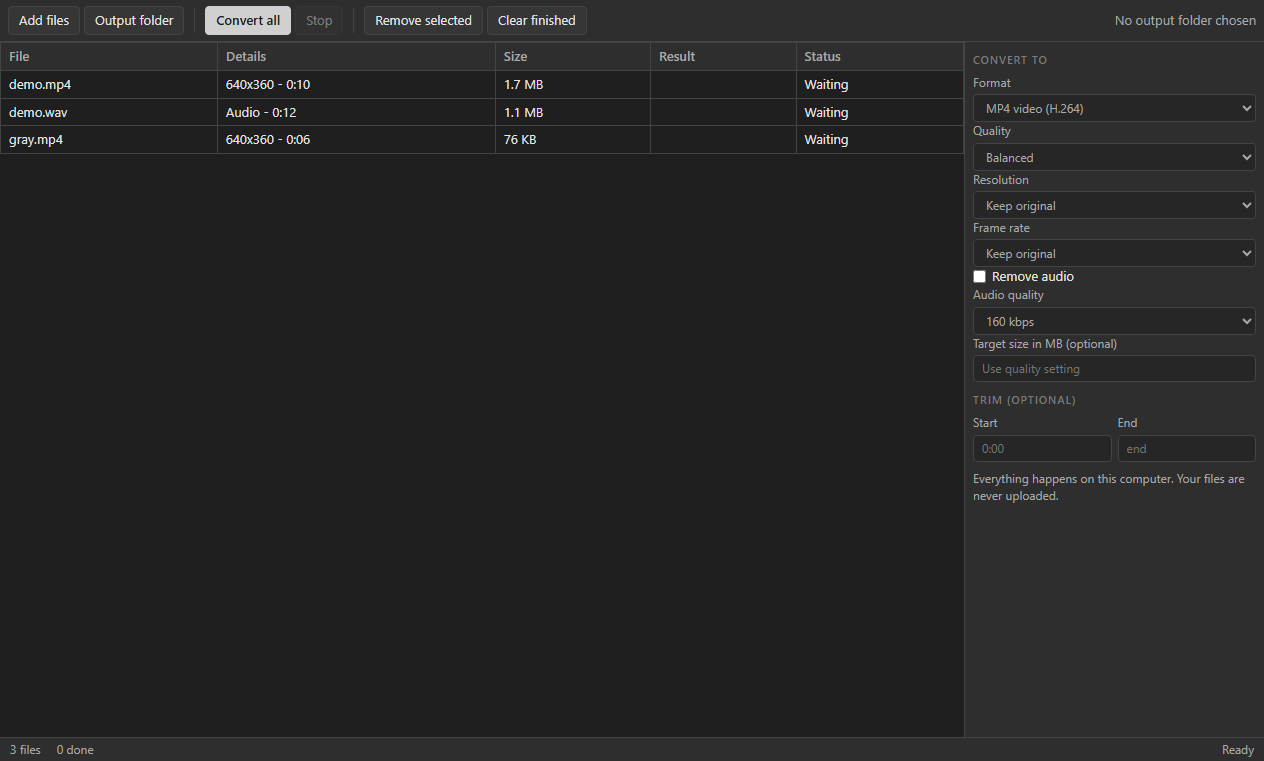
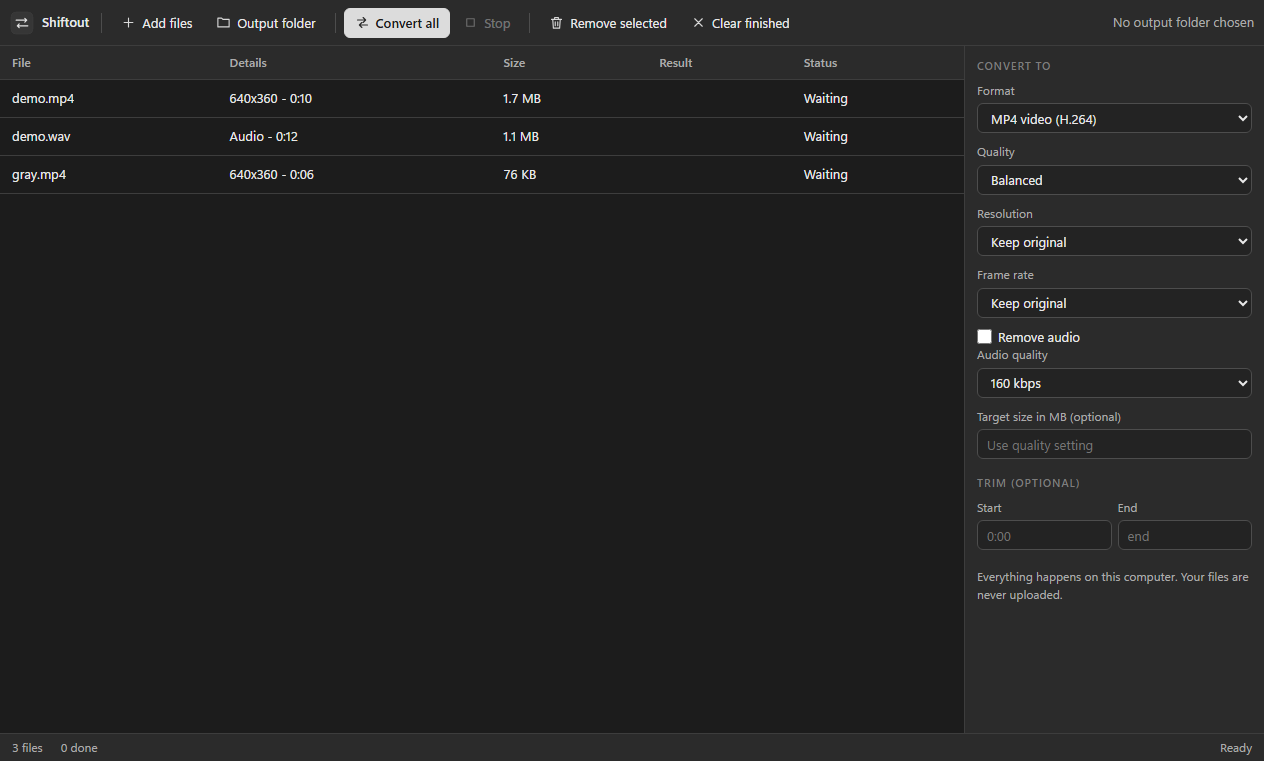
Shiftout 1.0.2: refreshed interface
Refreshed interface: line icons on every toolbar button, the app mark in the top bar, consistent control sizes and spacing, tidier side panels, and a toolbar that adapts to smaller windows. Also includes layout fixes and a fuller guide on the project page.

diff --git a/renderer/lookout.css b/renderer/lookout.css
@@ -1,62 +1,119 @@
-/* Lookout gray UI kit: flat, no glow, no gradients, no hue. */
+/* Lookout gray UI kit v2: flat, calm, no hue. Shared by every Lookout app. */
 :root{
-  --bg:#262626; --bg-2:#2e2e2e; --bg-3:#363636; --line:#444; --line-2:#555;
-  --text:#e4e4e4; --text-2:#a8a8a8; --text-3:#7c7c7c;
-  --accent:#d0d0d0; --accent-ink:#1c1c1c; --focus:#9a9a9a;
-  --radius:4px; --font:"Segoe UI",system-ui,-apple-system,sans-serif; --mono:Consolas,"Cascadia Mono",monospace;
+  --bg:#232323; --bg-2:#2b2b2b; --bg-3:#333333; --bg-4:#3b3b3b; --stage:#1c1c1c;
+  --line:#3d3d3d; --line-2:#4d4d4d; --line-3:#5c5c5c;
+  --text:#e8e8e8; --text-2:#ababab; --text-3:#7d7d7d;
+  --accent:#dcdcdc; --accent-ink:#1b1b1b; --focus:#a0a0a0;
+  --radius:6px; --h:30px;
+  --font:"Segoe UI Variable Text","Segoe UI",system-ui,-apple-system,sans-serif; --mono:Consolas,"Cascadia Mono",monospace;
 }
 *{box-sizing:border-box;margin:0;padding:0}
 html,body{height:100%;background:var(--bg);color:var(--text);font:13px/1.45 var(--font);overflow:hidden;user-select:none;-webkit-font-smoothing:antialiased}
 button,input,select,textarea{font:inherit;color:inherit}
 .app{display:grid;grid-template-rows:auto 1fr auto;height:100vh}
-.toolbar{display:flex;align-items:center;gap:4px;padding:6px 8px;background:var(--bg-2);border-bottom:1px solid var(--line);flex-wrap:wrap}
-.toolbar .sep{width:1px;align-self:stretch;background:var(--line);margin:2px 6px}
-.toolbar .grow{flex:1}
-.btn{background:var(--bg-3);border:1px solid var(--line);border-radius:var(--radius);padding:4px 10px;cursor:pointer;white-space:nowrap}
-.btn:hover{background:#404040;border-color:var(--line-2)}
+
+/* ---------- toolbar ---------- */
+.toolbar{display:flex;align-items:center;gap:2px;padding:7px 10px;min-height:46px;background:var(--bg-2);border-bottom:1px solid var(--line);flex-wrap:nowrap;overflow-x:auto;overflow-y:hidden;scrollbar-width:none}
+.toolbar::-webkit-scrollbar{height:0}
+.toolbar>*{flex-shrink:0}
+.toolbar .sep{width:1px;height:20px;align-self:center;background:var(--line-2);margin:0 6px}
+.toolbar .grow{flex:1 1 auto;min-width:8px}
+.toolbar input[type=text],.toolbar input[type=search]{width:170px}
+.brand{display:flex;align-items:center;gap:8px;padding-right:6px;margin-right:4px;font-weight:600;font-size:13px;color:var(--text)}
+.brand img{width:24px;height:24px;border-radius:6px;display:block}
+.brand+.sep{margin-left:0}
+
+/* ---------- buttons ---------- */
+.btn{display:inline-flex;align-items:center;justify-content:center;gap:6px;height:var(--h);padding:0 10px;background:var(--bg-3);border:1px solid var(--line);border-radius:var(--radius);cursor:pointer;white-space:nowrap;line-height:1;transition:background .08s,border-color .08s}
+.btn:hover{background:var(--bg-4);border-color:var(--line-2)}
 .btn:active{background:#2a2a2a}
-.btn:focus-visible,input:focus-visible,select:focus-visible,textarea:focus-visible,[tabindex]:focus-visible{outline:1px solid var(--focus);outline-offset:1px}
+.btn:focus-visible,input:focus-visible,select:focus-visible,textarea:focus-visible,[tabindex]:focus-visible{outline:2px solid var(--focus);outline-offset:1px}
 .btn.primary{background:var(--accent);color:var(--accent-ink);border-color:var(--accent);font-weight:600}
-.btn.primary:hover{background:#e0e0e0}
-.btn.on{background:#4a4a4a;border-color:var(--line-2)}
-.btn[disabled]{opacity:.4;pointer-events:none}
-.btn.icon{padding:4px 8px;min-width:30px;text-align:center}
-input[type=text],input[type=number],input[type=search],select,textarea{background:var(--bg);border:1px solid var(--line);border-radius:var(--radius);padding:4px 8px;user-select:text}
-input[type=range]{accent-color:#bdbdbd}
-input[type=color]{border:1px solid var(--line);background:var(--bg);width:28px;height:24px;padding:1px;border-radius:var(--radius)}
-label.field{display:flex;flex-direction:column;gap:3px;color:var(--text-2);font-size:12px}
-.main{display:flex;min-height:0}
-.sidebar{width:220px;background:var(--bg-2);border-right:1px solid var(--line);overflow:auto;padding:8px;flex-shrink:0}
-.sidebar.right{border-right:0;border-left:1px solid var(--line);width:250px}
-.sidebar h3,.panel-title{font-size:11px;text-transform:uppercase;letter-spacing:.08em;color:var(--text-3);margin:10px 0 6px;font-weight:600}
+.btn.primary:hover{background:#ececec;border-color:#ececec}
+.btn.on{background:#4a4a4a;border-color:var(--line-3);box-shadow:inset 0 0 0 1px #6a6a6a}
+.btn[disabled]{opacity:.38;pointer-events:none}
+.btn.icon{padding:0;width:var(--h);min-width:var(--h)}
+.btn .ic{width:15px;height:15px;flex-shrink:0;display:block;opacity:.92}
+.toolbar .btn:not(.primary):not(.on){background:transparent;border-color:transparent}
+.toolbar .btn:not(.primary):not(.on):hover{background:var(--bg-4);border-color:var(--line-2)}
+
+.toolbar.c1 .btn.minor:not(.primary):has(> svg.ic),.toolbar.c2 .btn:not(.primary):has(> svg.ic),.toolbar.c3 .btn:has(> svg.ic){font-size:0;gap:0;width:var(--h);padding:0}
+.toolbar.c2 .brand span{display:none}
+.toolbar.c2 input[type=text],.toolbar.c2 input[type=search]{width:120px}
+
+/* ---------- fields ---------- */
+input[type=text],input[type=number],input[type=search],input[type=date],select,textarea{background:var(--bg);border:1px solid var(--line-2);border-radius:var(--radius);padding:0 9px;height:var(--h);user-select:text;min-width:0}
+textarea{height:auto;padding:7px 9px;resize:vertical;line-height:1.45}
+select{padding-right:6px;cursor:pointer}
+input:hover,select:hover,textarea:hover{border-color:var(--line-3)}
+input[type=range]{accent-color:#c8c8c8;height:var(--h)}
+input[type=checkbox]{accent-color:#c8c8c8;width:15px;height:15px;cursor:pointer}
+input[type=color]{border:1px solid var(--line-2);background:var(--bg);width:30px;height:var(--h);padding:2px;border-radius:var(--radius)}
+label.field{display:flex;flex-direction:column;gap:4px;color:var(--text-2);font-size:12px}
+label.field>input,label.field>select,label.field>textarea{width:100%;color:var(--text);font-size:13px}
+
+/* ---------- layout ---------- */
+.main{display:flex;min-height:0;min-width:0}
+.sidebar{width:228px;background:var(--bg-2);border-right:1px solid var(--line);overflow:auto;padding:10px 12px 14px;flex-shrink:0}
+.sidebar.right{border-right:0;border-left:1px solid var(--line);width:272px}
+.sidebar h3,.panel-title{font-size:11px;text-transform:uppercase;letter-spacing:.08em;color:var(--text-3);margin:16px 0 8px;font-weight:600}
 .sidebar h3:first-child{margin-top:2px}
-.stage{flex:1;min-width:0;min-height:0;position:relative;background:#1f1f1f;overflow:auto}
-.status{display:flex;gap:16px;align-items:center;padding:3px 10px;background:var(--bg-2);border-top:1px solid var(--line);color:var(--text-2);font-size:12px}
+.sidebar input[type=text],.sidebar input[type=search],.sidebar select,.sidebar textarea{width:100%}
+.sidebar .row{flex-wrap:wrap}
+.sidebar .row>.btn{flex:1 1 auto}
+.sidebar .row>label.field{flex:1 1 0;min-width:0}
+.sidebar label.field{margin-bottom:10px}
+.sidebar .btn{width:auto}
+.sidebar>.btn{width:100%;margin-bottom:6px}
+.stage{flex:1;min-width:0;min-height:0;position:relative;background:var(--stage);overflow:auto}
+.status{display:flex;gap:18px;align-items:center;height:28px;padding:0 12px;background:var(--bg-2);border-top:1px solid var(--line);color:var(--text-2);font-size:12px;white-space:nowrap;overflow:hidden}
 .status .grow{flex:1}
 .list{display:flex;flex-direction:column;gap:2px}
-.list .item{padding:5px 8px;border-radius:var(--radius);cursor:pointer;border:1px solid transparent;display:flex;gap:6px;align-items:center}
+.list .item{padding:6px 8px;border-radius:var(--radius);cursor:pointer;border:1px solid transparent;display:flex;gap:6px;align-items:center;min-height:30px}
 .list .item:hover{background:var(--bg-3)}
-.list .item.sel{background:#444;border-color:var(--line-2)}
+.list .item.sel{background:var(--bg-4);border-color:var(--line-2)}
 .row{display:flex;gap:6px;align-items:center}
+.grow{flex:1 1 auto;min-width:0}
+.brow{display:grid;grid-template-columns:1fr 1fr;gap:6px;margin-bottom:6px}
+.brow>.btn{justify-content:flex-start}
+.frow{display:flex;align-items:center;gap:8px;margin-bottom:8px;color:var(--text-2)}
+.frow>input[type=text],.frow>input[type=number]{flex:1;color:var(--text)}
+.frow>span:first-child{min-width:44px}
+.frow>select{flex:1;min-width:0}
+.sidebar input[type=range]{width:100%}
+.sidebar .swatches{margin-bottom:10px}
+.list .item .btn{height:24px!important;width:26px!important;padding:0!important;font-size:0!important;gap:0;background:transparent;border-color:transparent;opacity:.55}
+.list .item:hover .btn,.list .item.sel .btn{opacity:1}
+.list .item .btn:hover{background:var(--bg-4);border-color:var(--line-2)}
 .col{display:flex;flex-direction:column;gap:6px}
 .muted{color:var(--text-2)}
-.empty{position:absolute;inset:0;display:flex;flex-direction:column;align-items:center;justify-content:center;gap:10px;color:var(--text-3);text-align:center;padding:20px}
-.empty .big{font-size:18px;color:var(--text-2)}
-.modal-back{position:fixed;inset:0;background:rgba(0,0,0,.55);display:flex;align-items:center;justify-content:center;z-index:50}
-.modal{background:var(--bg-2);border:1px solid var(--line-2);border-radius:6px;min-width:340px;max-width:80vw;max-height:85vh;overflow:auto;padding:16px;display:flex;flex-direction:column;gap:12px}
-.modal h2{font-size:15px;font-weight:600}
-.toast{position:fixed;left:50%;bottom:34px;transform:translateX(-50%);background:var(--bg-3);border:1px solid var(--line-2);padding:7px 14px;border-radius:var(--radius);z-index:60}
-.progress{height:6px;background:var(--bg);border:1px solid var(--line);border-radius:3px;overflow:hidden}
-.progress>i{display:block;height:100%;background:var(--accent);width:0}
-table.grid{border-collapse:collapse;width:100%}
-table.grid th,table.grid td{border:1px solid var(--line);padding:4px 8px;text-align:left}
-table.grid th{background:var(--bg-2);color:var(--text-2);font-weight:600}
-::-webkit-scrollbar{width:11px;height:11px}
-::-webkit-scrollbar-thumb{background:#4a4a4a;border:2px solid var(--bg);border-radius:6px}
-::-webkit-scrollbar-track{background:var(--bg)}
-.swatches{display:flex;flex-wrap:wrap;gap:4px}
-.swatches button{width:22px;height:22px;border:1px solid var(--line-2);border-radius:3px;cursor:pointer;padding:0}
-.swatches button.on{outline:2px solid var(--accent);outline-offset:1px}
-.progress>div{display:block;height:100%;background:var(--accent)}
-table.grid tr.sel td{background:#3a3a3a}
+.empty{position:absolute;inset:0;display:flex;flex-direction:column;align-items:center;justify-content:center;gap:12px;color:var(--text-3);text-align:center;padding:24px}
+.empty .big{font-size:18px;color:var(--text-2);font-weight:600}
+
+/* ---------- overlays ---------- */
+.modal-back{position:fixed;inset:0;background:rgba(0,0,0,.6);display:flex;align-items:center;justify-content:center;z-index:50}
+.modal{background:var(--bg-2);border:1px solid var(--line-2);border-radius:10px;min-width:360px;max-width:80vw;max-height:85vh;overflow:auto;padding:20px;display:flex;flex-direction:column;gap:14px;box-shadow:0 18px 50px rgba(0,0,0,.5)}
+.modal h2{font-size:16px;font-weight:600}
+.toast{position:fixed;left:50%;bottom:40px;transform:translateX(-50%);background:var(--bg-4);border:1px solid var(--line-3);padding:9px 16px;border-radius:8px;z-index:60;box-shadow:0 8px 24px rgba(0,0,0,.4)}
+.progress{height:6px;background:var(--bg);border:1px solid var(--line);border-radius:4px;overflow:hidden}
+.progress>i,.progress>div{display:block;height:100%;background:var(--accent);width:0}
+
+/* ---------- tables ---------- */
+table.grid{border-collapse:separate;border-spacing:0;width:100%}
+table.grid th,table.grid td{border-bottom:1px solid var(--line);padding:0 12px;height:38px;text-align:left;vertical-align:middle}
+table.grid th{background:var(--bg-2);color:var(--text-2);font-weight:600;font-size:12px;position:sticky;top:0;z-index:1;height:34px}
+table.grid tbody tr:hover td{background:#262626}
+table.grid tr.sel td{background:#353535}
 table.grid tbody tr{cursor:default}
+table.grid td .btn{height:26px;margin-left:8px;vertical-align:middle}
+table.grid td{white-space:nowrap}
+
+/* ---------- misc ---------- */
+::-webkit-scrollbar{width:11px;height:11px}
+::-webkit-scrollbar-thumb{background:#474747;border:3px solid transparent;background-clip:padding-box;border-radius:8px}
+::-webkit-scrollbar-thumb:hover{background:#5a5a5a;background-clip:padding-box;border:3px solid transparent}
+::-webkit-scrollbar-track,::-webkit-scrollbar-corner{background:transparent}
+.swatches{display:flex;flex-wrap:wrap;gap:6px}
+.swatches button{width:24px;height:24px;border:1px solid var(--line-3);border-radius:5px;cursor:pointer;padding:0}
+.swatches button.on{outline:2px solid var(--accent);outline-offset:2px}
+kbd{font-family:var(--mono);font-size:11px;background:var(--bg-3);border:1px solid var(--line-2);border-bottom-width:2px;border-radius:4px;padding:0 5px}

diff --git a/renderer/kit.js b/renderer/kit.js
@@ -1,0 +1,137 @@
+// Lookout UI kit: adds the app mark to the toolbar and monochrome line icons to buttons.
+// Purely visual. Buttons keep their text, so nothing else changes.
+(function () {
+  'use strict';
+  const NS = 'http://www.w3.org/2000/svg';
+  const P = {
+    plus: 'M12 5v14M5 12h14',
+    file: 'M14 3H6v18h12V7zM14 3v4h4M12 11v6M9 14h6',
+    folder: 'M3 7V5h6l2 2h10v12H3z',
+    save: 'M5 3h11l3 3v15H5zM8 3v5h7V3M8 21v-7h8v7',
+    saveas: 'M5 3h11l3 3v6M5 3v18h7M8 3v5h7V3M15 21l6-6-2-2-6 6v2z',
+    undo: 'M9 14L4 9l5-5M4 9h10a6 6 0 010 12h-3',
+    redo: 'M15 14l5-5-5-5M20 9H10a6 6 0 000 12h3',
+    trash: 'M4 7h16M10 11v6M14 11v6M6 7l1 14h10l1-14M9 7V4h6v3',
+    copy: 'M9 9h11v11H9zM5 15H4V4h11v1',
+    paste: 'M9 4h6v3H9zM8 5H5v16h14V5h-3',
+    dup: 'M8 8h12v12H8zM4 16V4h12M14 11v6M11 14h6',
+    download: 'M12 4v11M7 10l5 5 5-5M5 20h14',
+    fit: 'M4 9V4h5M15 4h5v5M20 15v5h-5M9 20H4v-5',
+    play: 'M7 4l13 8-13 8z',
+    stop: 'M6 6h12v12H6z',
+    pause: 'M7 5h3v14H7zM14 5h3v14h-3z',
+    rec: 'M12 5a7 7 0 100 14 7 7 0 000-14z',
+    scissors: 'M6 9a3 3 0 100-6 3 3 0 000 6zM6 21a3 3 0 100-6 3 3 0 000 6zM8.2 7.8L20 19M8.2 16.2L20 5',
+    pointer: 'M5 3l14 7-6 2-2 6z',
+    hand: 'M8 13V6a1.5 1.5 0 013 0v5M11 11V4.5a1.5 1.5 0 013 0V11M14 11V6a1.5 1.5 0 013 0v8a7 7 0 01-7 7 6 6 0 01-5-3l-2.5-4.5a1.5 1.5 0 012.6-1.5L8 15',
+    connector: 'M5 19L19 5M13 5h6v6',
+    frame: 'M7 3v18M17 3v18M3 7h18M3 17h18',
+    rect: 'M4 6h16v12H4z',
+    ellipse: 'M12 5c4.4 0 8 3.1 8 7s-3.6 7-8 7-8-3.1-8-7 3.6-7 8-7z',
+    line: 'M5 19L19 5',
+    text: 'M5 6V4h14v2M12 4v16M9 20h6',
+    highlight: 'M14 4l6 6-8 8H6v-6zM4 21h16',
+    pen: 'M4 20l4-1 11-11-3-3L5 16zM14 7l3 3',
+    redact: 'M4 8h16v8H4z',
+    sign: 'M3 17c3-6 5-9 7-9 3 0-2 9 1 9 2 0 3-3 5-3s1 3 5 3M3 21h18',
+    eraser: 'M8 20l-4-4 10-10 6 6-10 8zM12 20h8',
+    search: 'M11 4a7 7 0 100 14 7 7 0 000-14zM16 16l5 5',
+    list: 'M9 6h11M9 12h11M9 18h11M4 6h.01M4 12h.01M4 18h.01',
+    child: 'M5 4v8a3 3 0 003 3h11M15 11l4 4-4 4',
+    sibling: 'M5 6h14M5 12h14M12 15v6M9 18h6',
+    collapse: 'M6 9l6 6 6-6',
+    expand: 'M7 14l5-5 5 5',
+    calendar: 'M4 6h16v14H4zM4 10h16M8 3v5M16 3v5',
+    diamond: 'M12 3l9 9-9 9-9-9z',
+    up: 'M12 19V5M6 11l6-6 6 6',
+    down: 'M12 5v14M6 13l6 6 6-6',
+    refresh: 'M20 11a8 8 0 10-2.3 5.7M20 4v7h-7',
+    check: 'M4 12l5 5L20 6',
+    convert: 'M4 8h13M13 4l4 4-4 4M20 16H7M11 12l-4 4 4 4',
+    eye: 'M2 12s4-7 10-7 10 7 10 7-4 7-10 7S2 12 2 12zM12 9a3 3 0 100 6 3 3 0 000-6z',
+    info: 'M12 3a9 9 0 100 18 9 9 0 000-18zM12 11v6M12 7.5h.01',
+    front: 'M8 8h12v12H8zM4 4h10v3M4 4v10h3',
+    back: 'M4 4h12v12H4zM20 8v12H8v-4',
+    merge: 'M6 3v6a6 6 0 006 6h6M15 12l3 3-3 3M6 21v-4',
+    rotl: 'M4 10a8 8 0 112 6M4 4v6h6',
+    rotr: 'M20 10a8 8 0 10-2 6M20 4v6h-6',
+    blank: 'M6 3h12v18H6z',
+    extract: 'M14 3H6v18h12V7zM14 3v4h4M12 10v7M9 14l3 3 3-3',
+    mic: 'M12 3a3 3 0 00-3 3v6a3 3 0 006 0V6a3 3 0 00-3-3zM6 11a6 6 0 0012 0M12 17v4',
+    clear: 'M6 6l12 12M18 6L6 18',
+    gaps: 'M3 6v12M21 6v12M7 12h10M10 9l-3 3 3 3M14 9l3 3-3 3',
+    title: 'M4 5h16v14H4zM8 9h8M12 9v7',
+    dashed: 'M4 12h3M10 12h4M17 12h3',
+    arrow: 'M4 12h15M14 7l5 5-5 5',
+    elbow: 'M4 6h8v12h8',
+    label: 'M3 12l6-7h12v14H9zM8 12h.01',
+    image: 'M4 5h16v14H4zM4 16l5-5 4 4 3-3 4 4M15 9h.01',
+    vector: 'M5 19L12 5l7 14M8 13h8M3 19h4M17 19h4',
+    table: 'M4 5h16v14H4zM4 10h16M4 15h16M10 5v14',
+    lock: 'M6 11h12v9H6zM8 11V8a4 4 0 018 0v3',
+    unlock: 'M6 11h12v9H6zM8 11V8a4 4 0 017.5-2',
+    eyeoff: 'M3 3l18 18M10.6 6.1A10 10 0 0112 6c6 0 10 6 10 6a17 17 0 01-3 3.6M6.6 6.6C3.8 8.3 2 12 2 12s4 7 10 7a9.7 9.7 0 004.4-1',
+  };
+  const MAP = {
+    'New': 'file', 'Open': 'folder', 'Open project': 'folder', 'Open file': 'folder', 'Save': 'save', 'Save project': 'save', 'Save as': 'saveas',
+    'Undo': 'undo', 'Redo': 'redo', 'Delete': 'trash', 'Delete clip': 'trash', 'Remove selected': 'trash', 'Copy': 'copy', 'Paste': 'paste', 'Duplicate': 'dup',
+    'Export PNG': 'image', 'Export SVG': 'vector', 'Export CSV': 'table', 'Export': 'download', 'Export page as PNG': 'download', 'Extract all text': 'text',
+    'Fit': 'fit', 'Play': 'play', 'Stop': 'stop', 'Pause': 'pause', 'Resume': 'play', 'Record': 'rec', 'Split': 'scissors', 'Split here': 'scissors',
+    'Select': 'pointer', 'Move': 'pointer', 'Hand': 'hand', 'Connector': 'connector', 'Frame': 'frame', 'Rectangle': 'rect', 'Box': 'rect', 'Ellipse': 'ellipse', 'Line': 'line', 'Text': 'text',
+    'Highlight': 'highlight', 'Pen': 'pen', 'Redact': 'redact', 'Sign': 'sign', 'Erase': 'eraser', 'Preview': 'eye', 'Outline': 'list',
+    'Add child': 'child', 'Add sibling': 'sibling', 'Edit': 'pen', 'Collapse': 'collapse', 'Expand all': 'expand', 'Today': 'calendar',
+    'Add task': 'plus', 'Add milestone': 'diamond', 'Move up': 'up', 'Move down': 'down', 'Up': 'up', 'Down': 'down',
+    'Import media': 'plus', 'Add files': 'plus', 'Output folder': 'folder', 'Convert all': 'convert', 'Clear finished': 'clear', 'Show': 'folder', 'Show in folder': 'folder',
+    'Check file': 'check', 'Repair to new file': 'download', 'Refresh sources': 'refresh', 'Start recording': 'rec', 'Stop and review': 'stop', 'New recording': 'rec',
+    'Check for updates': 'refresh', 'Info': 'info', 'Merge': 'merge', 'Rotate L': 'rotl', 'Rotate R': 'rotr', 'Blank': 'blank', 'Extract': 'extract',
+    'Front': 'front', 'Back': 'back', 'Close gaps': 'gaps', 'Title text': 'title', 'Dashed': 'dashed', 'Arrow on/off': 'arrow', 'Straight / Elbow': 'elbow', 'Edit label': 'label',
+    'Cut': 'scissors', 'Trim to selection': 'fit', 'Locate missing files': 'search',
+  };
+  const LMAP = { 'Hide': 'eye', 'Show': 'eyeoff', 'Lock': 'unlock', 'Unlock': 'lock' };
+  function icon(name) {
+    const s = document.createElementNS(NS, 'svg');
+    s.setAttribute('viewBox', '0 0 24 24'); s.setAttribute('class', 'ic'); s.setAttribute('aria-hidden', 'true');
+    s.setAttribute('fill', 'none'); s.setAttribute('stroke', 'currentColor'); s.setAttribute('stroke-width', '1.8');
+    s.setAttribute('stroke-linecap', 'round'); s.setAttribute('stroke-linejoin', 'round');
+    const p = document.createElementNS(NS, 'path'); p.setAttribute('d', P[name]); s.append(p);
+    return s;
+  }
+  function decorate(b) {
+    if (b.tagName !== 'BUTTON' || !b.classList.contains('btn')) return;
+    const label = (b.textContent || '').trim();
+    const name = (b.closest('.list') && LMAP[label]) || MAP[label];
+    const cur = b.querySelector(':scope > svg.ic');
+    if (cur && cur.dataset.for === label) return;
+    if (cur) cur.remove();
+    if (!name) return;
+    const s = icon(name); s.dataset.for = label; b.prepend(s);
+    if (!b.title) b.title = label;
+  }
+  function brand(bar) {
+    if (!bar || bar.querySelector(':scope > .brand') || (document.title && (bar.textContent || '').includes(document.title))) return;
+    const name = document.title || '';
+    const d = document.createElement('div'); d.className = 'brand';
+    const img = document.createElement('img'); img.src = 'brand.svg'; img.alt = '';
+    const t = document.createElement('span'); t.textContent = name;
+    d.append(img, t);
+    const sep = document.createElement('span'); sep.className = 'sep';
+    bar.prepend(d, sep);
+  }
+  const MINOR = new Set(['New', 'Open', 'Undo', 'Redo', 'Copy', 'Paste', 'Duplicate', 'Delete', 'Front', 'Back', 'Fit', 'Hand', 'Merge', 'Move up', 'Move down', 'Today', 'Cut', 'Dashed', 'Arrow on/off', 'Straight / Elbow', 'Edit label', 'Output folder', 'Remove selected', 'Clear finished', 'Refresh sources', 'Stop', 'Collapse', 'Expand all', 'Select', 'Move']);
+  function fitBar(bar) {
+    bar.classList.remove('c1', 'c2', 'c3');
+    bar.querySelectorAll(':scope > .btn').forEach((b) => b.classList.toggle('minor', MINOR.has((b.textContent || '').trim())));
+    for (const c of ['c1', 'c2', 'c3']) { if (bar.scrollWidth <= bar.clientWidth + 1) break; bar.classList.add(c); }
+  }
+  window.addEventListener('resize', () => { const bar = document.querySelector('.app > .toolbar'); if (bar) fitBar(bar); });
+  let queued = false;
+  function sweep() {
+    queued = false;
+    document.querySelectorAll('.btn').forEach(decorate);
+    const bar = document.querySelector('.app > .toolbar');
+    if (bar && bar.children.length) { brand(bar); fitBar(bar); }
+  }
+  const mo = new MutationObserver(() => { if (!queued) { queued = true; requestAnimationFrame(sweep); } });
+  function start() { mo.observe(document.body, { childList: true, subtree: true, characterData: true }); sweep(); }
+  if (document.readyState === 'loading') document.addEventListener('DOMContentLoaded', start); else start();
+})();

diff --git a/renderer/index.html b/renderer/index.html
@@ -10,6 +10,7 @@
 </head>
 <body>
 <div class="app" id="app"></div>
+<script src="kit.js"></script>
 <script src="app.js"></script>
 </body>
 </html>

diff --git a/README.md b/README.md
@@ -1,6 +1,6 @@
 <p align="center"><img src="screenshots/banner.png" alt="Shiftout" width="100%"></p>
 
-<p align="center"><b>Convert and compress media</b><br>Version 1.0.1 for Windows · Free · Offline · No account</p>
+<p align="center"><b>Convert and compress media</b><br>Version 1.0.2 for Windows · Free · Offline · No account</p>
 
 <p align="center"><a href="https://github.com/plawanpawin-byte/shiftout/releases/latest"><b>Download Shiftout</b></a> · <a href="https://github.com/plawanpawin-byte/Lookout">All Lookout apps</a></p>
 
@@ -11,6 +11,12 @@ Shiftout converts video and audio between formats, shrinks large files and makes
 **Made for:** For when a file will not play on a device, is too big to send, or you only need the audio from a video.
 
 ![Shiftout](screenshots/01-queue.png)
+
+**On this page:** [Screenshots](#see-it-in-action) · [Interface](#the-interface) · [Features](#everything-it-can-do) · [How to use it](#how-to-use-it) · [Shortcuts](#keyboard-shortcuts) · [Formats](#files-and-formats) · [Privacy](#private-by-design) · [Install](#install) · [Questions](#questions)
+
+## What is new in 1.0.2
+
+A refreshed interface: every toolbar button now has a clear line icon, the app's mark sits at the top left, controls share one height and spacing, panels line up in tidy grids, and the toolbar keeps every button reachable on smaller windows by switching less important buttons to icons.
 
 ## See it in action
 
@@ -49,6 +55,12 @@ The MP3 produced from a video, drawn as a spectrogram.
 ![Output: GIF](screenshots/06-output-gif-frame.png)
 
 A frame from the animated GIF made from the clip.
+
+## The interface
+
+- **Top bar:** add files, choose the output folder, convert all, stop, remove and clear.
+- **Queue (centre):** every file with its details, size, result and status.
+- **Right panel:** target format and its settings, and the optional trim.
 
 ## Everything it can do
 
@@ -119,5 +131,15 @@ No. If a name is already taken, a number is added to the new file.
 ## About Lookout
 
 Shiftout belongs to the **[Lookout](https://github.com/plawanpawin-byte/Lookout)** family: ten small, private Windows apps for documents and media, all with the same calm grey look and the same promise that your files stay yours. Install and update them together with the [Lookout launcher](https://github.com/plawanpawin-byte/lookout-launcher).
+
+- **[Pageout](https://github.com/plawanpawin-byte/pageout)**: read, annotate and sign pdfs
+- **[Chartout](https://github.com/plawanpawin-byte/chartout)**: flowcharts and diagrams
+- **[Branchout](https://github.com/plawanpawin-byte/branchout)**: mind maps and outlines
+- **[Planout](https://github.com/plawanpawin-byte/planout)**: plans and gantt timelines
+- **[Frameout](https://github.com/plawanpawin-byte/frameout)**: screen design and prototypes
+- **[Cutout](https://github.com/plawanpawin-byte/cutout)**: video editing on a timeline
+- **[Castout](https://github.com/plawanpawin-byte/castout)**: record your screen
+- **[Mendout](https://github.com/plawanpawin-byte/mendout)**: repair damaged media
+- **[Tuneout](https://github.com/plawanpawin-byte/tuneout)**: record and edit audio
 
 Released under the MIT License.
